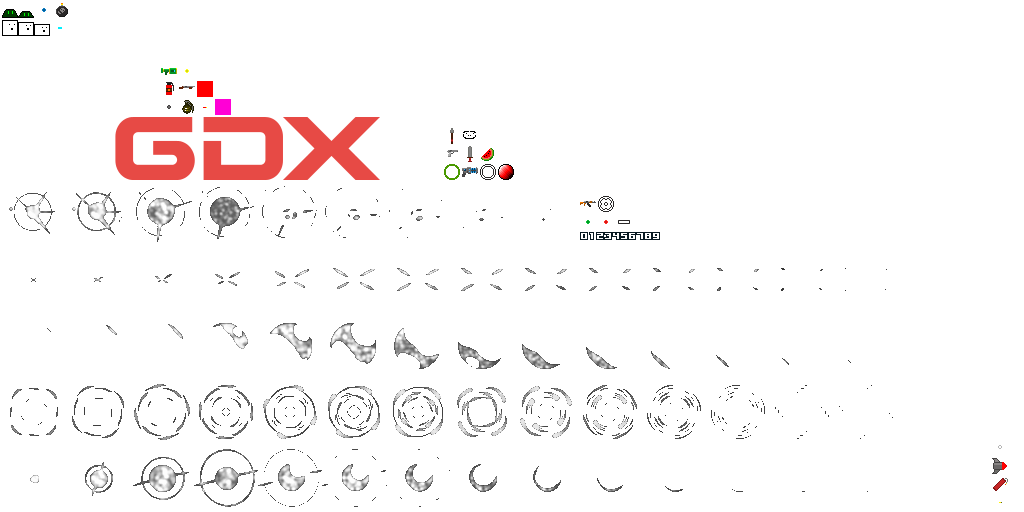
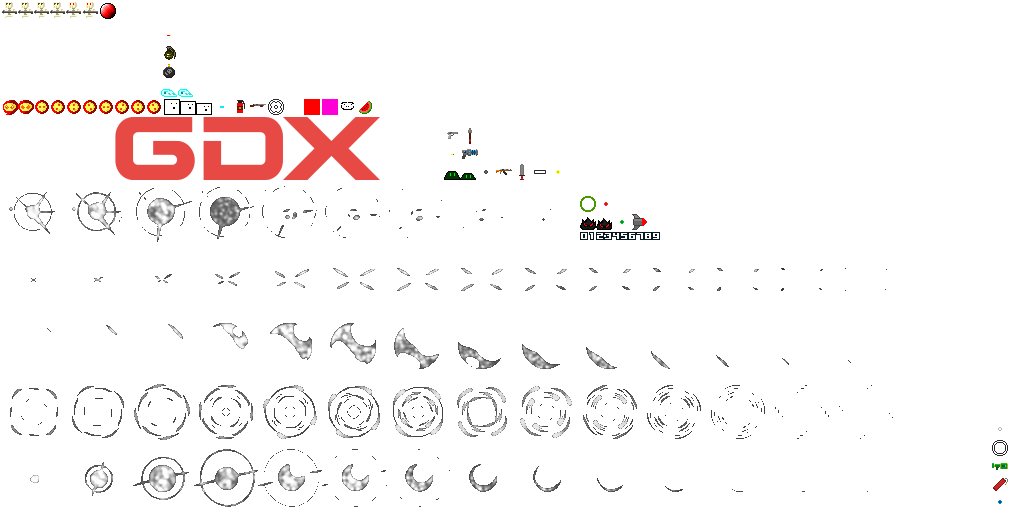
nuevos enemigos

diff --git a/core/src/main/java/com/tikisadventure/entities/enemies/ConfigurableEnemy.java b/core/src/main/java/com/tikisadventure/entities/enemies/ConfigurableEnemy.java
@@ -11,7 +11,11 @@ import com.tikisadventure.components.RenderComponent;
 import com.tikisadventure.entities.base.Entity;
 import com.tikisadventure.enemies.behavior.ChaserBehavior;
 import com.tikisadventure.enemies.behavior.EnemyBehavior;
+import com.tikisadventure.enemies.behavior.RangedBehavior;
+import com.tikisadventure.enemies.behavior.PouncingBounceBehavior;
 import com.tikisadventure.systems.WaveSystem;
+import com.tikisadventure.combat.projectiles.Projectile;
+import com.badlogic.gdx.utils.Array;
 
 public class ConfigurableEnemy extends Entity {
 
@@ -20,6 +24,13 @@ public class ConfigurableEnemy extends Entity {
     private TextureRegion spriteTexture;
     private Animation<TextureRegion> idleAnim = new Animation<>(0.1f);
     private Animation<TextureRegion> walkAnim = new Animation<>(0.15f);
+    private Animation<TextureRegion> attackAnim = new Animation<>(0.1f);
+    private Animation<TextureRegion> detectedAnim = new Animation<>(0.1f);
+    
+    private boolean isRanged = false;
+    private Array<Projectile> enemyProjectiles;
+    private com.tikisadventure.effects.EffectManager effectManager;
+    private boolean alive = true;
 
     static {
         JsonReader reader = new JsonReader();
@@ -58,21 +69,50 @@ public class ConfigurableEnemy extends Entity {
         // Cargar sprite desde Atlas
         String spriteRaw = config.getString("sprite", "shared_slime");
         String[] parts = spriteRaw.split("_", 2);
-        String atlas = (parts.length > 1) ? parts[0] : "shared";
-        String region = (parts.length > 1) ? parts[1] : parts[0];
+        String atlas = "shared";
+        String region = spriteRaw;
+        if (parts.length > 1) {
+            atlas = parts[0];
+            region = parts[1];
+        }
 
         try {
             spriteTexture = Assets.getRegion(atlas, region);
             int frameSize = 16;
             int frameCount = spriteTexture.getRegionWidth() / frameSize;
-            TextureRegion[] regions = new TextureRegion[frameCount];
-            for (int i = 0; i < frameCount; i++) {
-                regions[i] = new TextureRegion(spriteTexture, i * frameSize, 0, frameSize, frameSize);
+            
+            if (frameCount > 1) {
+                TextureRegion[] regions = new TextureRegion[frameCount];
+                for (int i = 0; i < frameCount; i++) {
+                    regions[i] = new TextureRegion(spriteTexture, i * frameSize, 0, frameSize, frameSize);
+                }
+                
+                if (frameCount == 6) {
+                    idleAnim = new Animation<>(0.15f, regions[0], regions[1], regions[2], regions[3]);
+                    idleAnim.setPlayMode(Animation.PlayMode.LOOP_PINGPONG);
+                    walkAnim = new Animation<>(0.15f, regions[0], regions[1], regions[2], regions[3]);
+                    walkAnim.setPlayMode(Animation.PlayMode.LOOP_PINGPONG);
+                    detectedAnim = new Animation<>(0.1f, regions[4]);
+                    attackAnim = new Animation<>(0.15f, regions[5]);
+                } else {
+                    idleAnim = new Animation<>(0.1f, regions[0]);
+                    walkAnim = new Animation<>(0.15f, regions[0]);
+                    if (frameCount >= 2) {
+                        detectedAnim = new Animation<>(0.1f, regions[1]);
+                    }
+                    if (frameCount >= 3) {
+                        TextureRegion[] attackFrames = new TextureRegion[frameCount - 2];
+                        for (int i = 2; i < frameCount; i++) {
+                            attackFrames[i - 2] = regions[i];
+                        }
+                        attackAnim = new Animation<>(0.1f, attackFrames);
+                        attackAnim.setPlayMode(Animation.PlayMode.LOOP);
+                    }
+                }
+            } else {
+                idleAnim = new Animation<>(0.1f, spriteTexture);
+                walkAnim = new Animation<>(0.15f, spriteTexture);
             }
-
-            idleAnim = new Animation<>(0.1f, regions[0]);
-            walkAnim = new Animation<>(0.15f, regions[0], regions[1]);
-            walkAnim.setPlayMode(Animation.PlayMode.LOOP_PINGPONG);
         } catch (Exception e) {
             Gdx.app.error("ConfigurableEnemy", "Error cargando sprite: " + atlas + "/" + region, e);
         }
@@ -84,7 +124,30 @@ public class ConfigurableEnemy extends Entity {
 
         if ("chaser".equals(behaviorType)) {
             behavior = new ChaserBehavior(getSpeed(), getDamage(), attackRange, attackCooldown);
+        } else if ("ranged".equals(behaviorType)) {
+            isRanged = true;
+            float detectionRange = config.getFloat("detection_range", 6.0f);
+            float projectileSpeed = config.getFloat("projectile_speed", 5.0f);
+            float projectileRadius = config.getFloat("projectile_radius", 0.3f);
+            String projectileSprite = config.getString("projectile_sprite", "YellowBullet");
+            
+            RangedBehavior rangedBehavior = new RangedBehavior(getSpeed(), detectionRange, attackCooldown,
+                    projectileSpeed, getDamage(), projectileSprite);
+            rangedBehavior.setProjectileRadius(projectileRadius);
+            rangedBehavior.loadProjectileTexture();
+            behavior = rangedBehavior;
+        } else if ("pouncing".equals(behaviorType)) {
+            float transformDistance = config.getFloat("transform_distance", 6.0f);
+            float waitDuration = config.getFloat("wait_duration", 1.0f);
+            float pounceSpeed = config.getFloat("pounce_speed", 10.0f);
+            float bounceForce = config.getFloat("bounce_force", 4.0f);
+            float restartDistance = config.getFloat("restart_distance", 4.0f);
+            
+            behavior = new PouncingBounceBehavior(getSpeed(), getDamage(), transformDistance,
+                    waitDuration, pounceSpeed, bounceForce, restartDistance, attackCooldown);
         }
+
+        this.alive = true;
     }
 
     public void setBehavior(EnemyBehavior behavior) {
@@ -96,7 +159,10 @@ public class ConfigurableEnemy extends Entity {
         super.update(delta);
         if (!isAlive() || target == null) return;
 
-        actualizarHitboxes(); // FIX: Update hitboxes for collision detection
+        float st = getStateTime();
+        st += delta;
+        setStateTime(st);
+        actualizarHitboxes();
 
         if (behavior != null) {
             behavior.update(this, target, delta, null);
@@ -106,24 +172,48 @@ public class ConfigurableEnemy extends Entity {
     @Override
     public void draw(com.badlogic.gdx.graphics.g2d.Batch batch, float delta) {
         TextureRegion frame;
-        if (getEstado() == Estado.walking) {
-            frame = walkAnim.getKeyFrame(getStateTime());
+        float st = getStateTime();
+        
+        boolean isRangedEnemy = isRanged && behavior instanceof RangedBehavior;
+        boolean isFiring = isRangedEnemy && ((RangedBehavior) behavior).isFiring();
+        boolean isDetected = isRangedEnemy && !isFiring && ((RangedBehavior) behavior).isDetected();
+        
+        boolean isPouncingEnemy = !isRanged && behavior instanceof PouncingBounceBehavior;
+        float floatOffset = 0;
+        if (isPouncingEnemy) {
+            floatOffset = ((PouncingBounceBehavior) behavior).getVisualOffsetY();
+            PouncingBounceBehavior.PounceState pounceState = ((PouncingBounceBehavior) behavior).getCurrentState();
+            
+            if (pounceState == PouncingBounceBehavior.PounceState.TRANSFORMING || 
+                pounceState == PouncingBounceBehavior.PounceState.WAITING) {
+                frame = detectedAnim.getKeyFrame(0);
+            } else if (pounceState == PouncingBounceBehavior.PounceState.POUNCING ||
+                       pounceState == PouncingBounceBehavior.PounceState.BOUNCING) {
+                frame = attackAnim.getKeyFrame(st);
+            } else {
+                frame = idleAnim.getKeyFrame(0);
+            }
+        } else if (isFiring) {
+            frame = attackAnim.getKeyFrame(st);
+        } else if (isDetected) {
+            frame = detectedAnim.getKeyFrame(0);
+        } else if (getEstado() == Estado.walking) {
+            frame = walkAnim.getKeyFrame(st);
         } else {
-            frame = idleAnim.getKeyFrame(getStateTime());
+            frame = idleAnim.getKeyFrame(st);
         }
 
         if (frame == null) {
-            Gdx.app.log("ConfigurableEnemy", "Frame is null, state: " + getEstado());
             return;
         }
 
-        float x = positionComponent.posicion.x - getANCHO() / 2;
-        float y = positionComponent.posicion.y - getALTO() / 2;
-
+        float x = getPosition().x - getANCHO() / 2;
+        float y = getPosition().y - getALTO() / 2 + floatOffset;
+        
         if (isMirarDerecha()) {
-            batch.draw(frame, x, y, getANCHO(), getALTO());
-        } else {
             batch.draw(frame, x + getANCHO(), y, -getANCHO(), getALTO());
+        } else {
+            batch.draw(frame, x, y, getANCHO(), getALTO());
         }
     }
 
@@ -136,5 +226,23 @@ public class ConfigurableEnemy extends Entity {
             return ((ChaserBehavior) behavior).canAttack();
         }
         return false;
+    }
+
+    public void setEffectManager(com.tikisadventure.effects.EffectManager em) {
+        this.effectManager = em;
+        if (behavior instanceof RangedBehavior) {
+            ((RangedBehavior) behavior).setEffectManager(em);
+        }
+    }
+
+    public void setEnemyProjectiles(Array<Projectile> projectiles) {
+        this.enemyProjectiles = projectiles;
+        if (behavior instanceof RangedBehavior) {
+            ((RangedBehavior) behavior).setEnemyProjectiles(projectiles);
+        }
+    }
+
+    public boolean hasPouncingBehavior() {
+        return "pouncing".equals(behavior != null ? behavior.getBehaviorType() : null);
     }
 }

diff --git a/core/src/main/java/com/tikisadventure/screens/GameScreen.java b/core/src/main/java/com/tikisadventure/screens/GameScreen.java
@@ -13,11 +13,13 @@ import com.badlogic.gdx.utils.ScreenUtils;
 import com.badlogic.gdx.utils.viewport.FitViewport;
 import com.badlogic.gdx.utils.viewport.Viewport;
 
+import com.tikisadventure.combat.projectiles.Projectile;
 import com.tikisadventure.combat.projectiles.ProjectileFactory;
 import com.tikisadventure.combat.weapons.WeaponFactory;
 import com.tikisadventure.combat.weapons.WeaponManager;
 import com.tikisadventure.core.Assets;
 import com.tikisadventure.entities.base.Entity;
+import com.tikisadventure.entities.enemies.ConfigurableEnemy;
 import com.tikisadventure.entities.pickup.MiniHeal;
 import com.tikisadventure.entities.pickup.Pickup;
 import com.tikisadventure.entities.pickup.XPOrb;
@@ -67,16 +69,11 @@ public class GameScreen implements Screen {
 
     private float damageCooldown = 0;
     private float restartTimer = 0f;
-    private float trajectoryTimer = 0f;
 
     private final com.badlogic.gdx.math.Vector3 mouseWorld3 = new com.badlogic.gdx.math.Vector3();
     private final Vector2 mouseWorld = new Vector2();
 
     public GameScreen(Game game) { this.game = game; }
-    public GameScreen(Game game, String waveSection) {
-        this.game = game;
-        this.waveSectionName = waveSection;
-    }
 
     @Override
     public void show() {
@@ -100,7 +97,7 @@ public class GameScreen implements Screen {
         movementSystem = new MovementSystem(effectManager);
         renderSystem = new RenderSystem();
         waveSystem = new WaveSystem(waveSectionName);
-        spawner = new EnemySpawner(enemies, floorManager, waveSystem);
+        spawner = new EnemySpawner(enemies, floorManager, waveSystem, effectManager);
 
         setupPlayerWeapons();
         hud = new HUD(new SpriteBatch());
@@ -143,6 +140,7 @@ public class GameScreen implements Screen {
         floorManager.renderEntities(batch);
         for (Pickup p : pickups) p.render(batch, delta);
         renderSystem.render(enemies, batch, delta);
+        renderSystem.renderProjectiles(spawner.getEnemyProjectiles(), batch, delta);
         effectManager.render(batch);
         renderSystem.render(player, batch, delta);
         combatFeedbackSystem.render(batch);
@@ -216,8 +214,15 @@ public class GameScreen implements Screen {
 
         movementSystem.updateProjectiles(player.getActiveProjectiles(), enemies, delta);
         combatSystem.update(player.getActiveProjectiles(), enemies, delta);
+
+        Array<Projectile> enemyProjectiles = spawner.getEnemyProjectiles();
+        movementSystem.updateProjectiles(enemyProjectiles, enemies, delta);
+        if (combatSystem.checkEnemyProjectileCollisions(enemyProjectiles, player)) {
+            damageCooldown = 0.8f;
+        }
+
         spawner.update(delta, player);
-        updateWaveLogic(delta);
+        updateWaveLogic();
         updatePickups(delta);
         updateEnemies(delta);
 
@@ -237,7 +242,12 @@ public class GameScreen implements Screen {
             Entity enemy = enemies.get(i);
             if (enemy.isAlive()) {
                 enemy.update(delta, player);
-                physicsSystem.resolveWallCollision(enemy, 0.4f);
+
+                if (enemy instanceof ConfigurableEnemy && ((ConfigurableEnemy) enemy).hasPouncingBehavior()) {
+                    physicsSystem.resolveWallCollisionWithBounce(enemy, 0.4f);
+                } else {
+                    physicsSystem.resolveWallCollision(enemy, 0.4f);
+                }
             } else {
                 spawnDrop(enemy.getPosition(), enemy.getExperience());
                 player.addScore(enemy.getScoreValue());
@@ -254,7 +264,7 @@ public class GameScreen implements Screen {
         }
     }
 
-    private void updateWaveLogic(float delta) {
+    private void updateWaveLogic() {
         if (!waveInProgress && !floorManager.isTransitionActive()) {
             spawner.resetForNewWave();
             waveInProgress = true;

diff --git a/core/src/main/java/com/tikisadventure/systems/PhysicsSystem.java b/core/src/main/java/com/tikisadventure/systems/PhysicsSystem.java
@@ -47,6 +47,47 @@ public class PhysicsSystem {
         if (floorManager.isWall(x, y + halfSize)) entity.getPosition().y = (float)Math.floor(y + halfSize) - halfSize;
     }
 
+    public void resolveWallCollisionWithBounce(Entity entity, float halfSize) {
+        boolean hitWall = false;
+        float x = entity.getPosition().x;
+        float y = entity.getPosition().y;
+        
+        float bounceX = 0;
+        float bounceY = 0;
+
+        if (floorManager.isWall(x - halfSize, y)) {
+            entity.getPosition().x = (float)Math.floor(x - halfSize) + 1 + halfSize;
+            bounceX = 1;
+            hitWall = true;
+        }
+        if (floorManager.isWall(x + halfSize, y)) {
+            entity.getPosition().x = (float)Math.floor(x + halfSize) - halfSize;
+            bounceX = -1;
+            hitWall = true;
+        }
+        if (floorManager.isWall(x, y - halfSize)) {
+            entity.getPosition().y = (float)Math.floor(y - halfSize) + 1 + halfSize;
+            bounceY = 1;
+            hitWall = true;
+        }
+        if (floorManager.isWall(x, y + halfSize)) {
+            entity.getPosition().y = (float)Math.floor(y + halfSize) - halfSize;
+            bounceY = -1;
+            hitWall = true;
+        }
+        
+        if (hitWall && entity instanceof com.tikisadventure.entities.enemies.ConfigurableEnemy) {
+            com.tikisadventure.entities.enemies.ConfigurableEnemy configEnemy = 
+                (com.tikisadventure.entities.enemies.ConfigurableEnemy) entity;
+            if (configEnemy.hasPouncingBehavior() && configEnemy.getBehavior() instanceof com.tikisadventure.enemies.behavior.PouncingBounceBehavior) {
+                Vector2 bounceDir = new Vector2(bounceX, bounceY);
+                if (bounceDir.len() > 0) {
+                    ((com.tikisadventure.enemies.behavior.PouncingBounceBehavior) configEnemy.getBehavior()).triggerBounce(bounceDir);
+                }
+            }
+        }
+    }
+
     public void resolveEnemySeparation(Array<Entity> enemies, float delta) {
         for (int i = 0; i < enemies.size; i++) {
             Entity a = enemies.get(i);
@@ -76,7 +117,24 @@ public class PhysicsSystem {
                 float force = (minDist - dist) * config.push * delta;
                 player.getPosition().mulAdd(tempVec, force);
 
-                if (damageCooldown <= 0) {
+                boolean isPouncingBouncing = false;
+                if (enemy instanceof com.tikisadventure.entities.enemies.ConfigurableEnemy) {
+                    com.tikisadventure.entities.enemies.ConfigurableEnemy configEnemy = 
+                        (com.tikisadventure.entities.enemies.ConfigurableEnemy) enemy;
+                    if (configEnemy.hasPouncingBehavior() && configEnemy.getBehavior() instanceof com.tikisadventure.enemies.behavior.PouncingBounceBehavior) {
+                        com.tikisadventure.enemies.behavior.PouncingBounceBehavior pounceBehavior = 
+                            (com.tikisadventure.enemies.behavior.PouncingBounceBehavior) configEnemy.getBehavior();
+                        
+                        if (pounceBehavior.getCurrentState() == com.tikisadventure.enemies.behavior.PouncingBounceBehavior.PounceState.BOUNCING ||
+                            pounceBehavior.getCurrentState() == com.tikisadventure.enemies.behavior.PouncingBounceBehavior.PounceState.POUNCING) {
+                            Vector2 bounceDir = new Vector2(-tempVec.x, -tempVec.y);
+                            pounceBehavior.triggerBounce(bounceDir);
+                            isPouncingBouncing = true;
+                        }
+                    }
+                }
+
+                if (!isPouncingBouncing && damageCooldown <= 0) {
                     player.receiveDamage(enemy.getDamage(), false, DamageType.KINETIC);
                     tookDamage = true;
                 }
